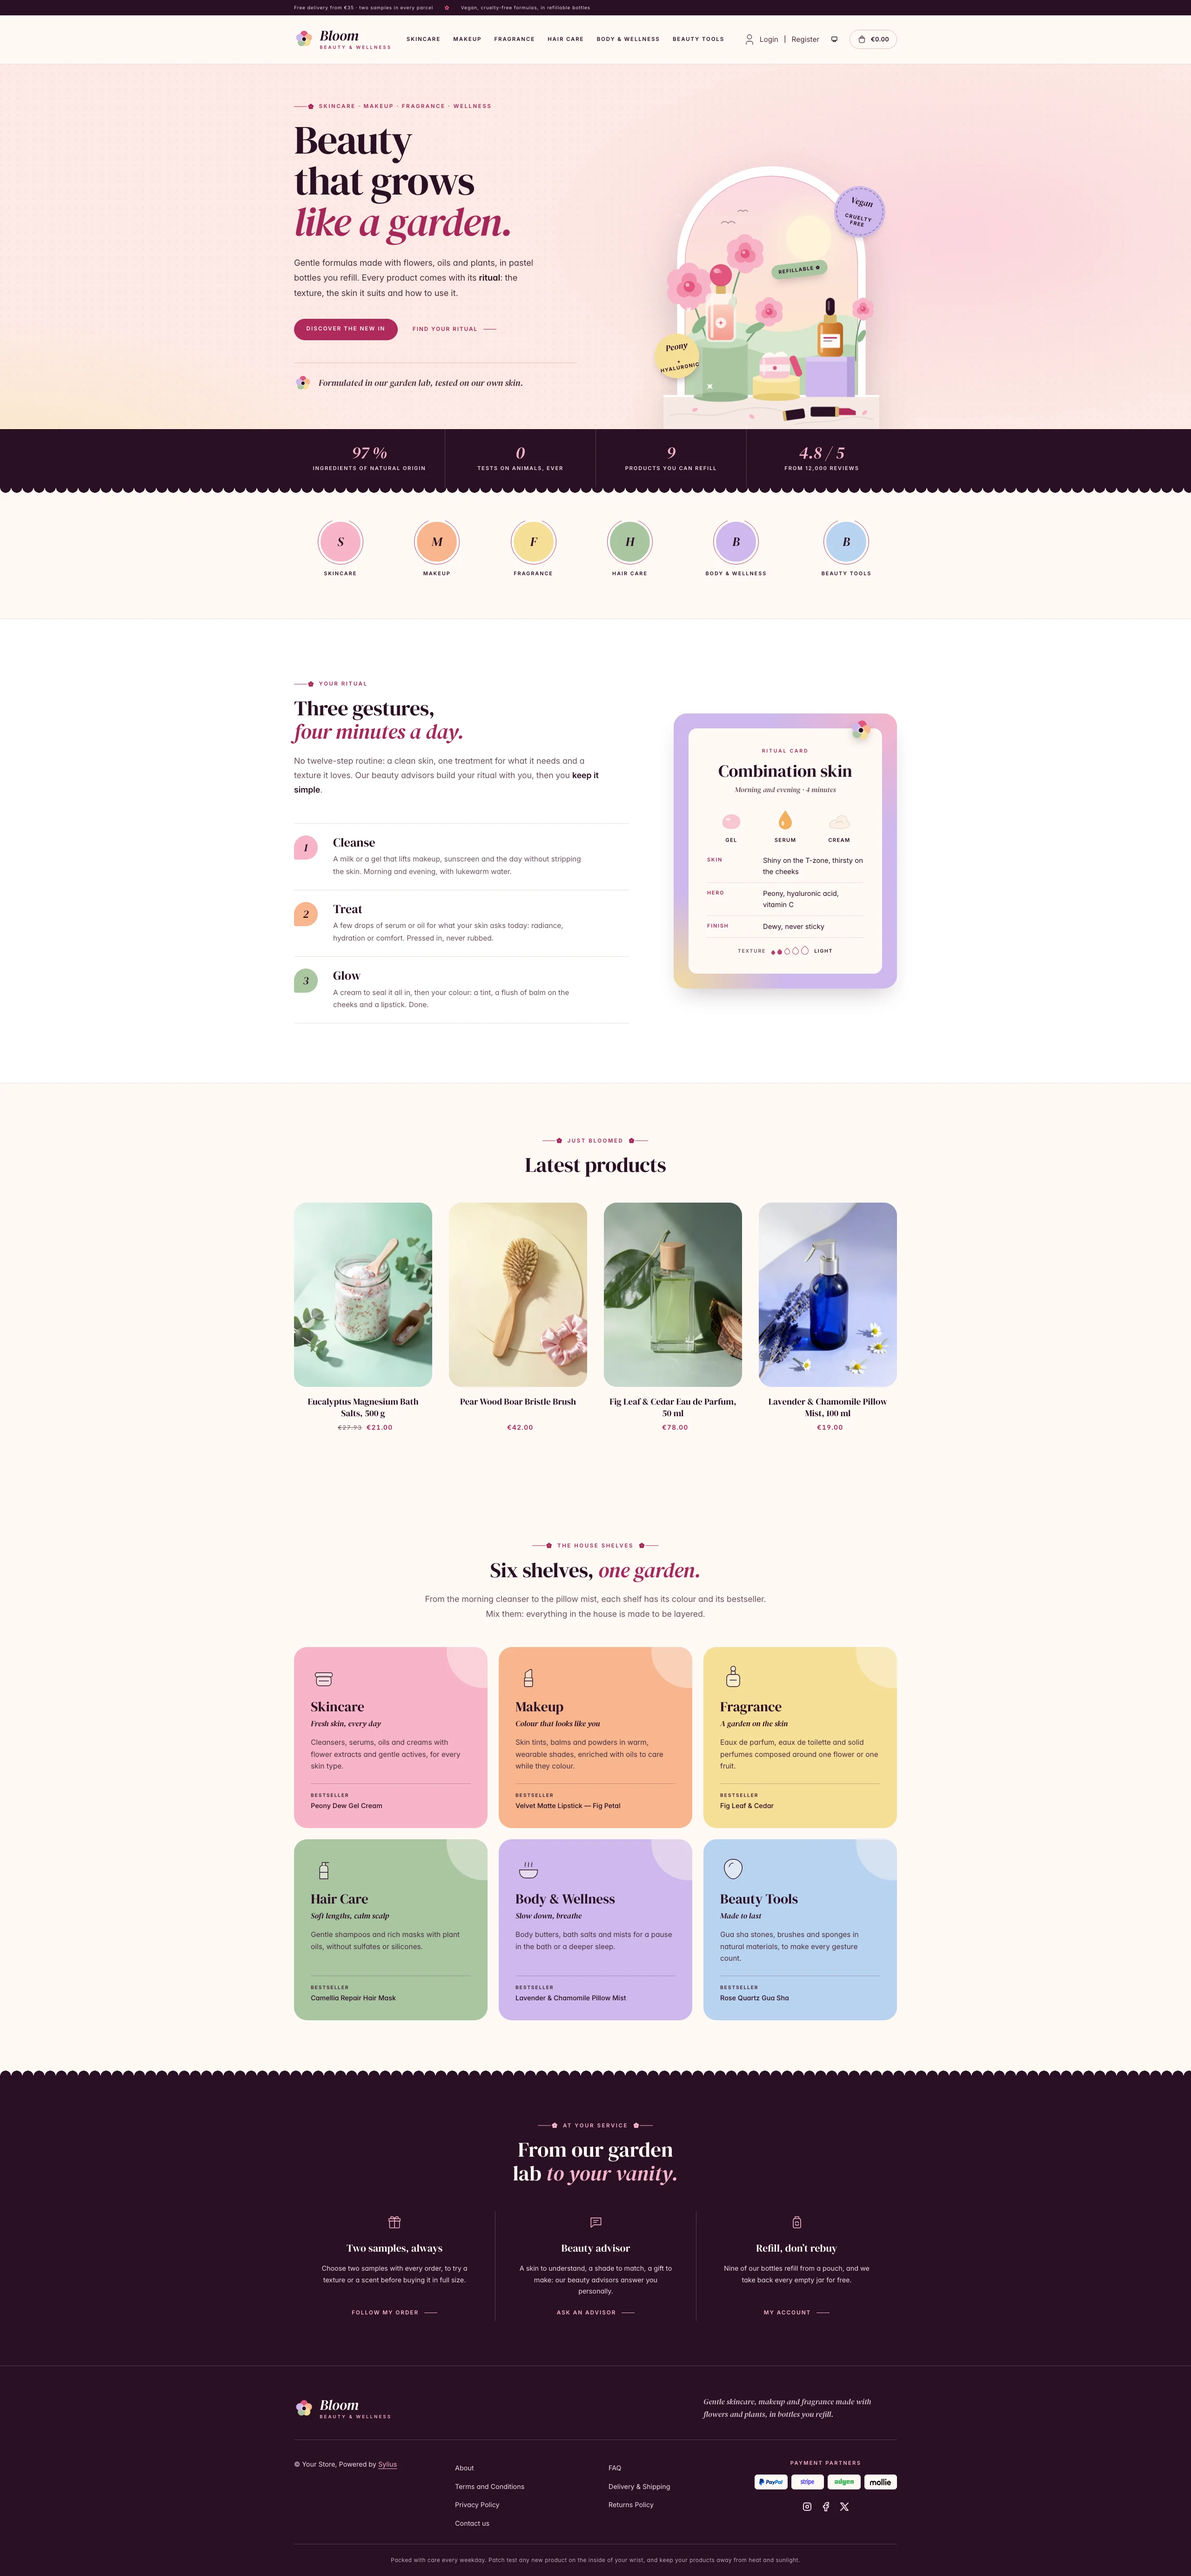
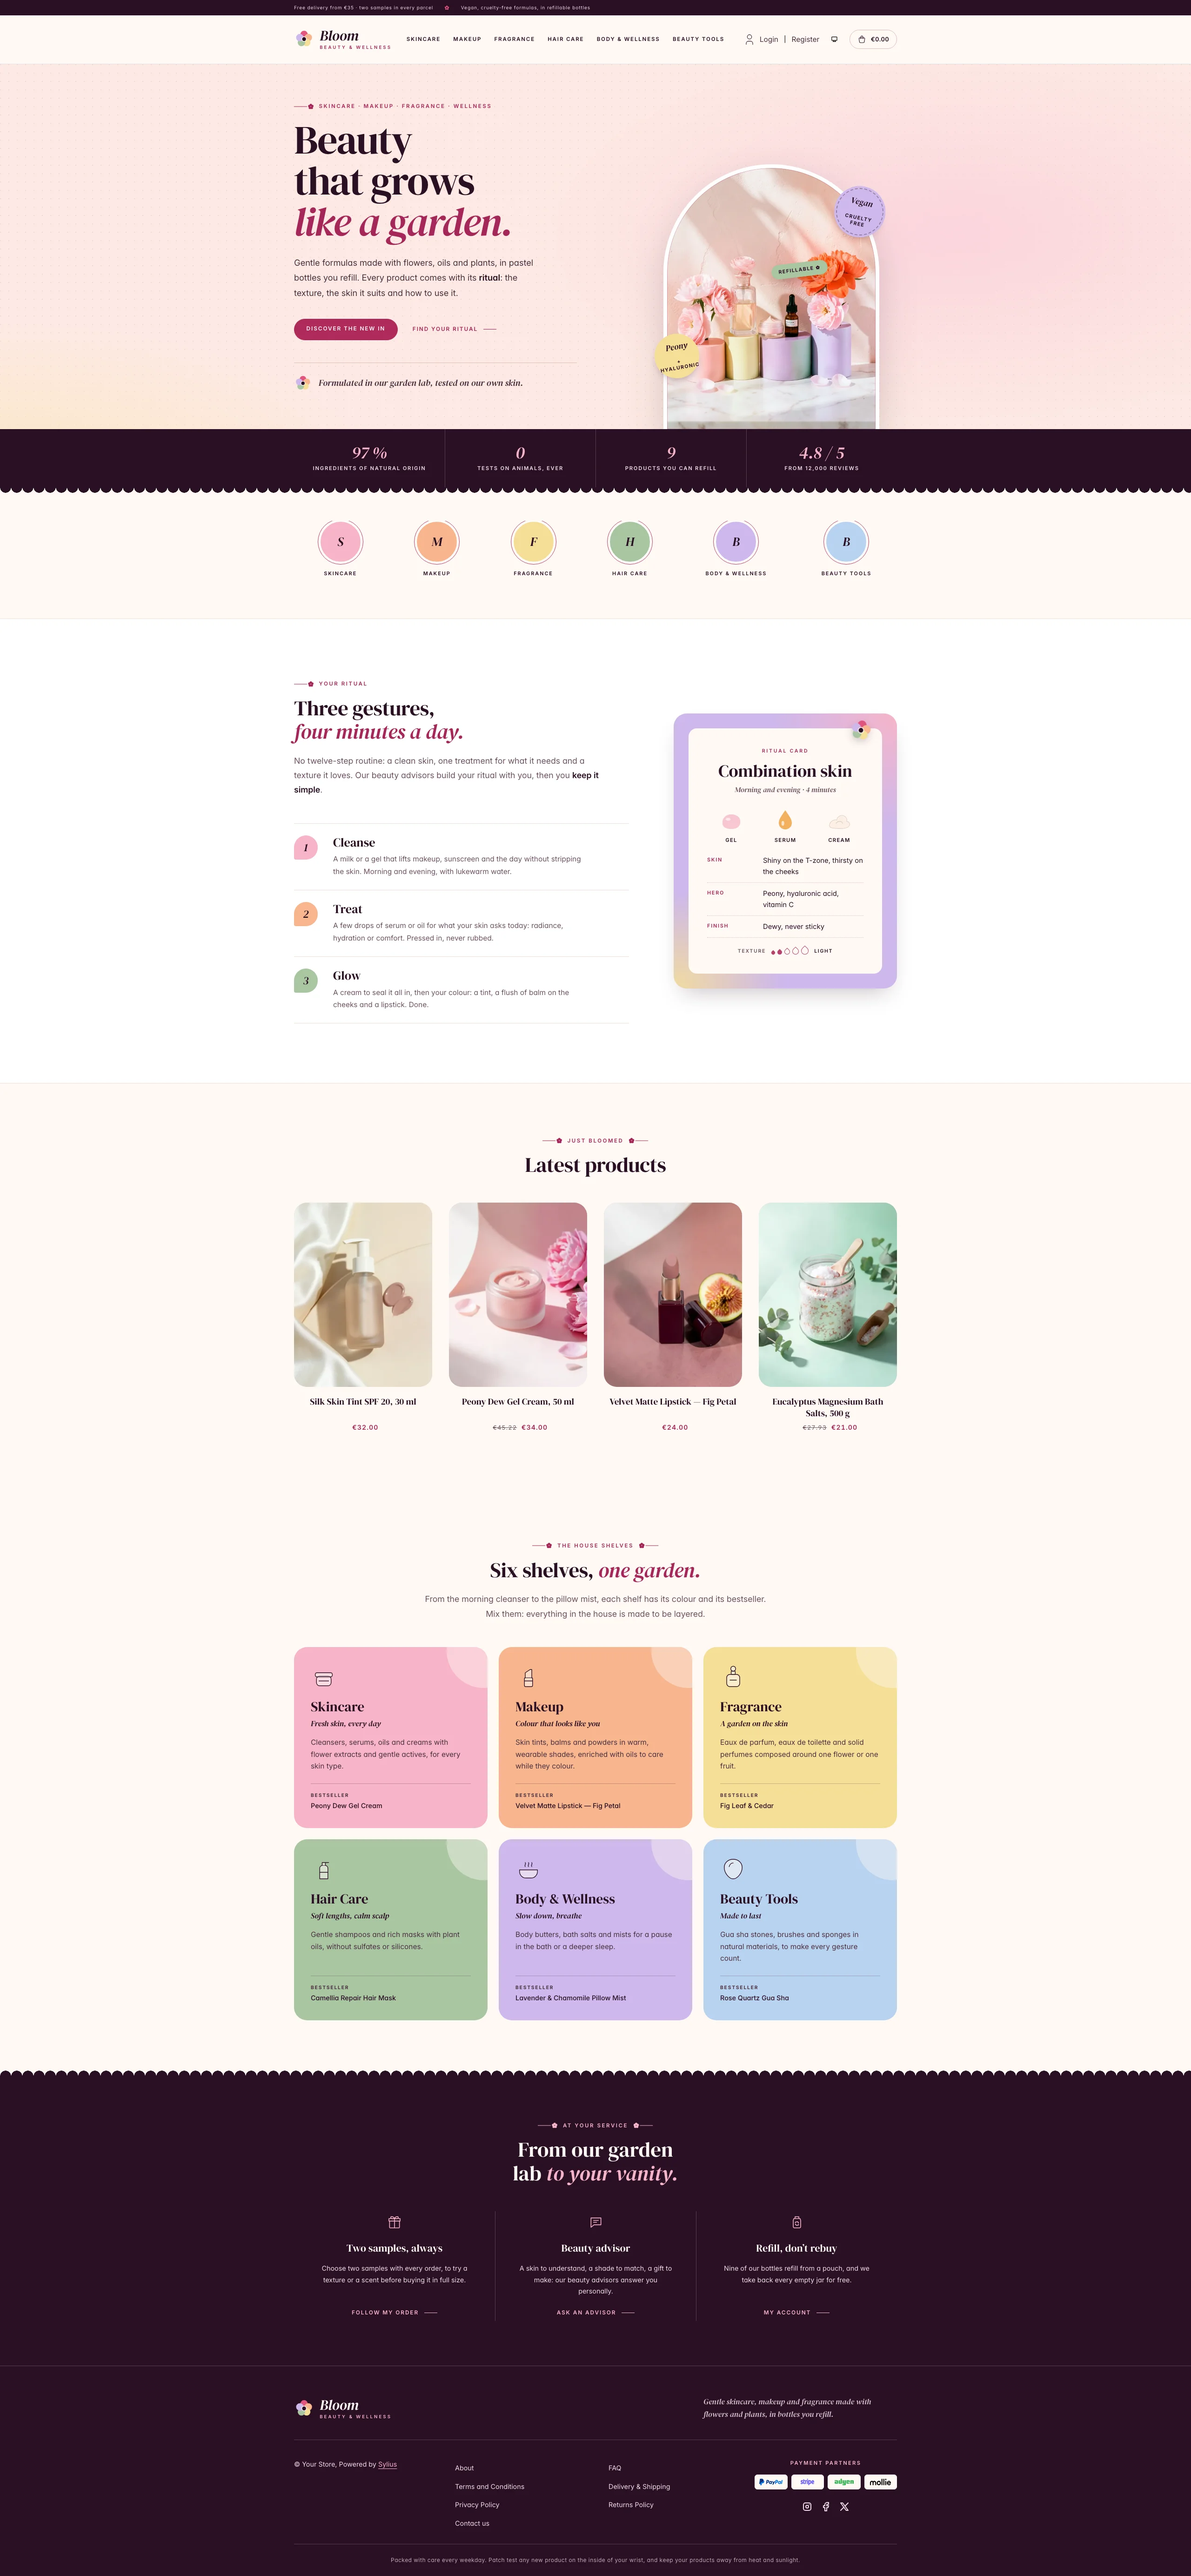
feat(bloom): Replace the hero illustration with a vanity photograph
The arched mirror of the hero now frames a photograph of the vanity:
pastel pedestals holding a perfume, a pot of cream and a dropper serum
among peonies, in the morning sun in the light scheme and at a lilac
dusk, by candlelight, in the dark one. It is a background image, so each
scheme only downloads its own photograph. The stickers stay printed over
it; the SVG illustration and its styles are removed, and the dark hero
glow turns lilac to meet the dusk.

Changed region(s): [[0.25, 0.4661, 0.75, 0.5593], [0.5312, 0.0621, 0.75, 0.1864]]

diff --git a/src/Themes/resources/bloom/assets/shop/styles/_hero.scss b/src/Themes/resources/bloom/assets/shop/styles/_hero.scss
@@ -1,5 +1,5 @@
-// Bloom hero: a DM Serif headline closed by a peony italic, next to the Bloom vanity, an arched mirror onto a garden
-// at sunrise with pastel pedestals and stickers. A fig band of house figures closes it, edged with petals.
+// Bloom hero: a DM Serif headline closed by a peony italic, next to the Bloom vanity, a photograph in an arched mirror
+// (in the morning sun, or at dusk by candlelight) with stickers. A fig band of house figures closes it, edged with petals.
 
 .bloom-hero {
   position: relative;
@@ -111,141 +111,13 @@
   object-fit: cover;
 }
 
-// Scheme colours of the illustration: the sky, the mirror frame and the marble.
-.bloom-vanity__sky-top {
-  stop-color: $sky-top;
-}
-
-.bloom-vanity__sky-bottom {
-  stop-color: $sky-bottom;
-}
-
-.bloom-vanity__halo-stop {
-  stop-color: $sun;
-}
-
-.bloom-vanity__sun {
-  fill: $sun;
-}
-
-.bloom-vanity__hill {
-  fill: $vanity-hill;
-}
-
-.bloom-vanity__hill--far {
-  fill: $vanity-hill-far;
-}
-
-.bloom-vanity__birds {
-  stroke: $vanity-birds;
-}
-
-.bloom-vanity__frame {
-  fill: $vanity-frame;
-}
-
-.bloom-vanity__frame-line {
-  fill: none;
-  stroke: $vanity-frame-line;
-  stroke-width: 1.5;
-}
-
-.bloom-vanity__marble {
-  fill: $vanity-marble;
-}
-
-.bloom-vanity__marble-edge {
-  fill: $vanity-marble-edge;
-}
-
-.bloom-vanity__vein {
-  stroke: $vanity-vein;
-}
-
-.bloom-vanity__sparkles {
-  fill: $vanity-sparkle;
-}
-
-// Sparkles twinkle, petals drift down from the peonies, the bouquet sways.
-@keyframes bloom-twinkle {
-  0%,
-  100% {
-    opacity: 0.25;
-    transform: scale(0.6) rotate(0);
-  }
-
-  50% {
-    opacity: 1;
-    transform: scale(1) rotate(45deg);
-  }
-}
-
-.bloom-vanity__sparkles use {
-  transform-box: fill-box;
-  transform-origin: center;
-  animation: bloom-twinkle 3.2s ease-in-out infinite;
-
-  &:nth-child(2) {
-    animation-delay: -0.8s;
-  }
-
-  &:nth-child(3) {
-    animation-delay: -1.6s;
-  }
-
-  &:nth-child(4) {
-    animation-delay: -2.4s;
-  }
-}
-
-@keyframes bloom-fall {
-  0% {
-    opacity: 0;
-    transform: translate(0, -20px) rotate(0);
-  }
-
-  15%,
-  80% {
-    opacity: 0.9;
-  }
-
-  100% {
-    opacity: 0;
-    transform: translate(-40px, 260px) rotate(320deg);
-  }
-}
-
-.bloom-vanity__falling use {
-  transform-box: fill-box;
-  transform-origin: center;
-  animation: bloom-fall 11s linear infinite;
-
-  &:nth-child(2) {
-    animation-delay: -4s;
-    animation-duration: 13s;
-  }
-
-  &:nth-child(3) {
-    animation-delay: -8s;
-    animation-duration: 10s;
-  }
-}
-
-@keyframes bloom-sway {
-  0%,
-  100% {
-    transform: rotate(-1.5deg);
-  }
-
-  50% {
-    transform: rotate(1.5deg);
-  }
-}
-
-.bloom-vanity__bouquet {
-  transform-box: view-box;
-  transform-origin: 120px 470px;
-  animation: bloom-sway 7s ease-in-out infinite;
+// A background image, so that each scheme only downloads its own photograph. The mirror frame runs around it.
+.bloom-hero__photo {
+  border: 0.55rem solid $vanity-frame;
+  border-bottom: 0;
+  border-radius: 999px 999px 0 0;
+  background: $vanity-frame url(if($dark, "../images/hero-dusk.webp", "../images/hero-day.webp")) 50% 100% / cover no-repeat;
+  box-shadow: inset 0 0 0 1px $vanity-frame-line;
 }
 
 // Stickers on the mirror, like on a gift box: tilted, pastel, slightly lifted.
@@ -322,18 +194,6 @@
 
 .bloom-vanity:hover .bloom-sticker--refill {
   transform: rotate(-12deg) scale(1.05);
-}
-
-@media (prefers-reduced-motion: reduce) {
-  .bloom-vanity__sparkles use,
-  .bloom-vanity__falling use,
-  .bloom-vanity__bouquet {
-    animation: none;
-  }
-
-  .bloom-vanity__falling {
-    display: none;
-  }
 }
 
 // House figures in a fig band, closed by a row of petals hanging over the page.

diff --git a/src/Themes/resources/bloom/assets/shop/styles/_palette-dark.scss b/src/Themes/resources/bloom/assets/shop/styles/_palette-dark.scss
@@ -44,27 +44,17 @@ $focus-ring: rgba($accent-text, 0.25);
 $success: #93C496;
 $info: #9DB8DE;
 
-// The hero: dusk in the garden, the arch opening onto a lilac evening sky and a rising moon.
+// The hero: a lilac dusk around the photograph of the vanity.
 $hero-bg: #1E0E1A;
-$hero-glow: #4A1D3E;
+$hero-glow: #43295E;
 $hero-glow-2: #2E1A3E;
 $hero-heading: $heading;
 $hero-text: $text;
 $hero-em: $accent-text;
-$sky-top: #3A2150;
-$sky-bottom: #8A4E6E;
-$sun: #FCE7C6;
 
-// The vanity of the hero: the garden hills at dusk, the mirror frame and the marble.
-$vanity-hill: #4F5E59;
-$vanity-hill-far: #3D3550;
-$vanity-birds: rgba($milk, 0.5);
+// The vanity of the hero: the mirror frame and its shadow.
 $vanity-frame: $fig-deep;
 $vanity-frame-line: rgba($peony-light, 0.45);
-$vanity-marble: #3A2234;
-$vanity-marble-edge: #4D2E46;
-$vanity-vein: rgba($milk, 0.12);
-$vanity-sparkle: $butter;
 $vanity-shadow: rgba($fig-night, 0.6);
 
 $shadow-soft: 0 1px 2px rgba(#000, 0.4);

diff --git a/src/Themes/resources/bloom/assets/shop/styles/_palette-light.scss b/src/Themes/resources/bloom/assets/shop/styles/_palette-light.scss
@@ -43,27 +43,17 @@ $focus-ring: rgba($petal, 0.25);
 $success: #3D6A44;
 $info: #3E5C86;
 
-// The hero: a blush morning, the arch opening onto a sunrise sky.
+// The hero: a blush morning around the photograph of the vanity.
 $hero-bg: #FDE9E3;
 $hero-glow: #FBD3DC;
 $hero-glow-2: #FBE7C2;
 $hero-heading: $heading;
 $hero-text: $text;
 $hero-em: $accent-text;
-$sky-top: #FBD9E3;
-$sky-bottom: #FDEBC9;
-$sun: #FFF4DA;
 
-// The vanity of the hero: the garden hills, the mirror frame and the marble.
-$vanity-hill: #BCD5B3;
-$vanity-hill-far: #D7E6CF;
-$vanity-birds: rgba($fig-night, 0.35);
+// The vanity of the hero: the mirror frame and its shadow.
 $vanity-frame: $surface;
 $vanity-frame-line: rgba($petal, 0.35);
-$vanity-marble: #F6E9E4;
-$vanity-marble-edge: #FFFFFF;
-$vanity-vein: rgba($fig, 0.14);
-$vanity-sparkle: $milk;
 $vanity-shadow: rgba($fig-night, 0.18);
 
 $shadow-soft: 0 1px 2px rgba($fig-night, 0.06);

diff --git a/docs/themes/bloom.md b/docs/themes/bloom.md
@@ -38,7 +38,7 @@ keep it fresh rather than clinical, and the page speaks of rituals, textures and
   (`#F6DF97`), sage (`#A9C6A2`), lilac (`#CDB8EC`) and sky (`#B9D3F0`).
 - **Dark scheme** — the bathroom by candlelight: night fig (page `#170B14`, surfaces `#20111C`), milk type,
   a deep peony (`#B32C5E`) for buttons and a pale pink (`#F8B4C8`) for accent text; the hero turns to a lilac
-  dusk with a rising moon.
+  dusk lit by a candle.
 - **Typography** — *DM Serif Display* (SIL Open Font License, roman and italic, shipped in
   `assets/shop/fonts/`) for headings, product names and figures, with round peony italics; *Inter* (already
   shipped by the Sylius shop) for body copy, and spaced uppercase small capitals for eyebrows, navigation,
@@ -51,25 +51,26 @@ keep it fresh rather than clinical, and the page speaks of rituals, textures and
 - **Header** — a fig top bar with the delivery and sample promise, then the **house flower** and the
   *Bloom* wordmark (its petals turn on hover), centered category navigation with a peony dot under the
   hovered link.
-- **Homepage** — a blush hero: an eyebrow, a DM Serif headline ending in peony italic, two calls to action
-  and a signature with the flower. On the right, the **vanity**: an arched mirror opening onto a garden at
-  sunrise (a lilac dusk and a moon in the dark scheme), swaying peonies, pastel pedestals holding a perfume
-  with a peony cap, a pot of pink cream and an amber dropper serum, a lipstick on the marble, falling petals,
-  twinkling sparkles and three tilted **stickers** (vegan, key ingredient, refillable). A fig band of **house
-  figures** (natural origin, no animal testing, refills, reviews) closes the hero. Category roundels take a
-  pastel each. The ritual block (`theme_promise` hookable) presents the routine in three steps on petal
-  numerals (cleanse, treat, glow), next to a **ritual card** for one skin type on a pastel board (texture
-  swatches of a gel, a serum and a cream, skin, key ingredients, finish and texture). After the four latest
-  products, the **shelves** block (`theme_shelves` hookable) shows the six shelves of the house (skincare,
-  makeup, fragrance, hair care, body & wellness, beauty tools), each on its pastel with a drawing, a promise
-  and its bestseller. The deals and new collection blocks are hidden.
+- **Homepage** — a blush hero: an eyebrow, a DM Serif headline ending in peony italic, two calls to action and
+  a signature with the flower. On the right, the **vanity**: a photograph in an arched mirror of pastel
+  pedestals on a marble vanity holding a perfume with a peony cap, a pot of pink cream and an amber dropper
+  serum, among pink and coral peonies and fallen petals, in the morning sun; in the dark scheme the same
+  vanity at a lilac dusk, by candlelight. Each scheme only downloads its own photograph
+  (`assets/shop/images/`). Three tilted **stickers** (vegan, key ingredient, refillable) are printed over it.
+  A fig band of **house figures** (natural origin, no animal testing, refills, reviews) closes the hero.
+  Category roundels take a pastel each. The ritual block (`theme_promise` hookable) presents the routine in
+  three steps on petal numerals (cleanse, treat, glow), next to a **ritual card** for one skin type on a
+  pastel board (texture swatches of a gel, a serum and a cream, skin, key ingredients, finish and texture).
+  After the four latest products, the **shelves** block (`theme_shelves` hookable) shows the six shelves of
+  the house (skincare, makeup, fragrance, hair care, body & wellness, beauty tools), each on its pastel with a
+  drawing, a promise and its bestseller. The deals and new collection blocks are hidden.
 - **Footer** — fig, with three **house services** (two samples always, beauty advisor, refills) linking to
   the contact page and the customer account, the wordmark, the Sylius links and a patch test notice.
 - **Checkout** — the checkout header uses the Bloom wordmark and responsive category navigation, the current
   step is ruled in peony.
 - **Translations** — every Bloom-specific text lives in its own `bloom` translation domain
   (`translations/bloom.en.yaml` and `bloom.fr.yaml`).
-- **Accessibility** — visible peony focus rings, text alternatives for the hero illustration and the
+- **Accessibility** — visible peony focus rings, text alternatives for the hero photograph and the
   texture levels, decorative stickers hidden from assistive technologies, and no motion (sparkles, falling
   petals, swaying peonies) for visitors who prefer reduced motion.
 
